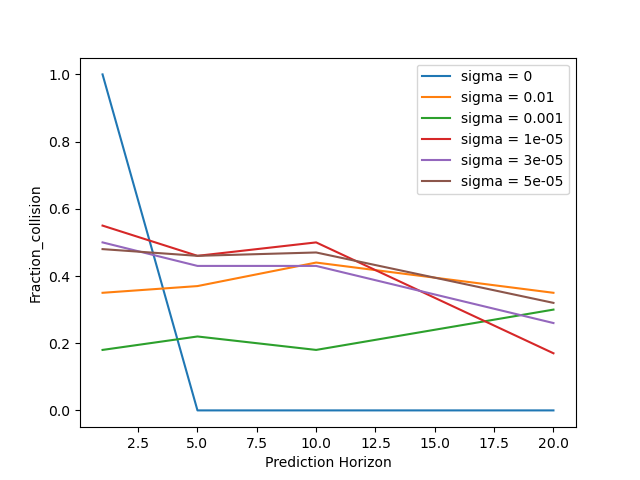
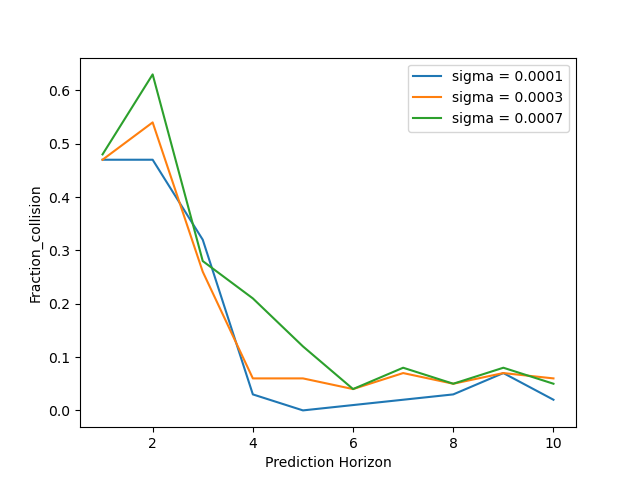
change before laptop repair

diff --git a/various_graphs.py b/various_graphs.py
@@ -49,7 +49,7 @@ for SELECT in SELECT_LIST:
                     vel_dataset = [dataset_size*[np.zeros((2,1))] for i in range(num_agents)]
                     plot_circles_flag = False
                     dummy_vel = 0.5*radius
-                    system = System(A, B, G, g, H, h, radius, Q, R, x_0_list, x_F_list, vel_dataset = vel_dataset, method = "scenario", sigma=sigma)    
+                    system = System(A, B, G, g, H, h, radius, Q, R, x_0_list, x_F_list, vel_dataset = vel_dataset, method = "scenario", sigma=sigma, N=N)    
                     start_time = time.time()
                     traj_cost = system.simulate_orca_mpc(N = N, plot_circles_flag = plot_circles_flag, plot_steps=False)
                     if traj_cost == None:
@@ -110,14 +110,9 @@ for SELECT in SELECT_LIST:
                     vel_dataset = [dataset_size*[np.zeros((2,1))] for i in range(num_agents)]
                     plot_circles_flag = False
                     dummy_vel = 0.5*radius
-                    system = System(A, B, G, g, H, h, radius, Q, R, x_0_list, x_F_list, vel_dataset = vel_dataset, method = "scenario", sigma=sigma)    
+                    system = System(A, B, G, g, H, h, radius, Q, R, x_0_list, x_F_list, vel_dataset = vel_dataset, method = "scenario", sigma=sigma, N=N)    
                     start_time = time.time()
-                    try:
-                        traj_cost = system.simulate_orca_mpc(N = N, plot_circles_flag = plot_circles_flag, plot_steps=False)
-                    except:
-                        cnt_collide += 1
-                        continue
-
+                    traj_cost = system.simulate_orca_mpc(N = N, plot_circles_flag = plot_circles_flag, plot_steps=False)
                     if traj_cost == None:
                         cnt_collide += 1
                         continue
@@ -138,19 +133,18 @@ for SELECT in SELECT_LIST:
     if SELECT == 3:
         avg_cost_vals = None
         avg_time_vals = None
-        num_ensembles = 1
+        num_ensembles = 500
         # sigma = 0.01 gives decent results
-        # dataset_size_list = [(x+1) for x in range(1)]
-        dataset_size_list = [1]
+        dataset_size_list = [1,10,20,50,100]
         frac_collide_list = []
-        sigma_list = [0,0.000000025,0.000000035,0.000000045]
-        # sigma_list = [0.001,0.003,0.005,0.007,0.009]
+        sigma_list = [0.5e-4,0.7e-4,0.9e-4,1e-4,2e-4]
+        # sigma_list = [0.001]
         time_vals_list = []
         for sigma in sigma_list:
             frac_collide = []
             time_vals = []
             for dataset_size in dataset_size_list:
-                N = 1
+                N = 5
                 lines = []
                 cost_vals = []
                 cnt_collide = 0
@@ -179,7 +173,7 @@ for SELECT in SELECT_LIST:
                         x_0_list[i]+=np.array([[0],[vert_deviation_list[i]],[0],[0]])
                     num_agents = len(x_0_list)
                     plot_circles_flag = True
-                    dummy_vel = 0.5*radius/math.sqrt(2)
+                    dummy_vel = 0.8*radius/math.sqrt(2)
                     
                     # vel_dataset = [dataset_size*[np.zeros((2,1))] for i in range(num_agents)]
                     vel_dataset_dummy = [dummy_vel*np.ones((2,1))]
@@ -187,15 +181,12 @@ for SELECT in SELECT_LIST:
                         vel_dataset_dummy.append(vel_dataset_dummy[-1]+np.random.randn(2,1)*sigma)
 
                     vel_dataset = [dataset_size*[dummy_vel*np.ones((2,1))+np.random.randn(2,1)*sigma] for i in range(num_agents)]
+                    vel_dataset[1] = vel_dataset_dummy
                     is_agent_dummy_list = [False, True]
                     x_0_list[1] += np.array([[0],[0],[dummy_vel],[dummy_vel]])
-                    system = System(A, B, G, g, H, h, radius, Q, R, x_0_list, x_F_list, vel_dataset = vel_dataset, method = "scenario", sigma=sigma, is_agent_dummy_list=is_agent_dummy_list)    
+                    system = System(A, B, G, g, H, h, radius, Q, R, x_0_list, x_F_list, vel_dataset = vel_dataset, method = "scenario", sigma=sigma, is_agent_dummy_list=is_agent_dummy_list, N=N)    
                     start_time = time.time()
-                    try:
-                        traj_cost = system.simulate_orca_mpc(N = N, plot_circles_flag = plot_circles_flag, plot_steps=True)
-                    except:
-                        cnt_collide += 1
-                        continue
+                    traj_cost = system.simulate_orca_mpc(N = N, plot_circles_flag = plot_circles_flag, plot_steps=True)
                     if traj_cost == None:
                         cnt_collide += 1
                         continue
@@ -227,16 +218,19 @@ for SELECT in SELECT_LIST:
         avg_time_vals = None
         num_ensembles = 100 #DEBUG
         # sigma = 0.01 gives decent results
-        N_list = [1, 5, 10, 20]
+        # N_list = [1, 5, 10, 20]
+        N_list = [x+1 for x in range(10)]
         frac_collide_list = []
-        sigma_list = [0,0.01,0.001,0.00001,0.00003,0.00005]
+        # sigma_list = [1e-5*(x) for x in range(5)] worked quite well
+        # sigma_list = [1e-5*(x) for x in range(5)]
+        sigma_list = [1e-4,3e-4,7e-4]
         time_vals_list = []
         for sigma in sigma_list:
             frac_collide = []
             time_vals = []
             for N in N_list:
                 
-                dataset_size=5
+                dataset_size=10
                 lines = []
                 cost_vals = []
                 time_taken = 0
@@ -264,12 +258,19 @@ for SELECT in SELECT_LIST:
                     for i in range(len(x_0_list)):
                         x_0_list[i]+=np.array([[0],[vert_deviation_list[i]],[0],[0]])
                     num_agents = len(x_0_list)
-                    vel_dataset = [dataset_size*[np.zeros((2,1))] for i in range(num_agents)]
-                    plot_circles_flag = False
-                    dummy_vel = 0.5*radius/math.sqrt(2)
+                    plot_circles_flag = True
+                    dummy_vel = 0.8*radius/math.sqrt(2)
                     is_agent_dummy_list = [False, True]
+                    # vel_dataset = [dataset_size*[np.zeros((2,1))] for i in range(num_agents)]
+                    vel_dataset_dummy = [dummy_vel*np.ones((2,1))]
+                    for iter in range(dataset_size-1):
+                        vel_dataset_dummy.append(vel_dataset_dummy[-1]+np.random.randn(2,1)*sigma)
+
+                    vel_dataset = [dataset_size*[dummy_vel*np.ones((2,1))+np.random.randn(2,1)*sigma] for i in range(num_agents)]
+                    vel_dataset[1] = vel_dataset_dummy
+                    
                     x_0_list[1] += np.array([[0],[0],[dummy_vel],[dummy_vel]])
-                    system = System(A, B, G, g, H, h, radius, Q, R, x_0_list, x_F_list, vel_dataset = vel_dataset, method = "scenario", sigma=sigma, is_agent_dummy_list=is_agent_dummy_list)    
+                    system = System(A, B, G, g, H, h, radius, Q, R, x_0_list, x_F_list, vel_dataset = vel_dataset, method = "scenario", sigma=sigma, is_agent_dummy_list=is_agent_dummy_list, N=N)    
                     start_time = time.time()
                     traj_cost = system.simulate_orca_mpc(N = N, plot_circles_flag = plot_circles_flag, plot_steps=False)
                     if traj_cost == None:
@@ -334,7 +335,7 @@ for SELECT in SELECT_LIST:
                     dummy_vel = 0.5*radius/math.sqrt(2)
                     is_agent_dummy_list = [False, True]
                     x_0_list[1] += np.array([[0],[0],[dummy_vel],[dummy_vel]])
-                    system = System(A, B, G, g, H, h, radius, Q, R, x_0_list, x_F_list, vel_dataset = vel_dataset, method = "scenario", sigma=sigma, is_agent_dummy_list=is_agent_dummy_list)    
+                    system = System(A, B, G, g, H, h, radius, Q, R, x_0_list, x_F_list, vel_dataset = vel_dataset, method = "scenario", sigma=sigma, is_agent_dummy_list=is_agent_dummy_list, N=N)    
                     start_time = time.time()
                     traj_cost = system.simulate_orca_mpc(N = N, plot_circles_flag = plot_circles_flag, plot_steps=False)
                     system.plot_dij("d_ij"+"_"+str(sigma)+"_"+str(N)+"_"+str(dataset_size)+".png",0,1)

diff --git a/system.py b/system.py
@@ -5,7 +5,7 @@ import copy
 from tqdm import tqdm
 class System:
     
-    def __init__(self, A, B, G, g, H, h, radius, Q, R, x_0_list, x_F_list , is_agent_dummy_list=[], vel_dataset = [], method = "constant_vel", sigma = 0):
+    def __init__(self, A, B, G, g, H, h, radius, Q, R, x_0_list, x_F_list , is_agent_dummy_list=[], vel_dataset = [], method = "constant_vel", sigma = 0, N=1):
         # it only makes sense to have velocity constraints not position in G
         assert(len(x_0_list) == len(x_F_list))
         self.num_agents = len(x_0_list)
@@ -19,7 +19,7 @@ class System:
         self.sigma = sigma
         self.d_ij = []
         for i in range(self.num_agents):
-            new_agent = Agent(A, B, G, g, H, h, radius=radius, _id=i, x_0=x_0_list[i], Q=Q, R=R, x_F=x_F_list[i], is_agent_dummy_list = self.is_agent_dummy_list, sigma=sigma)
+            new_agent = Agent(A, B, G, g, H, h, radius=radius, _id=i, x_0=x_0_list[i], Q=Q, R=R, x_F=x_F_list[i], is_agent_dummy_list = self.is_agent_dummy_list, sigma=sigma, tau=N+1)
             self.agent_list.append(new_agent)
 
 
@@ -67,41 +67,39 @@ class System:
             for j in range(len(self.agent_list)):
                 if i==j:
                     continue
-                if np.linalg.norm(self.agent_list[i].x[-1][0:2]-self.agent_list[j].x[-1][0:2])<0.99*(self.agent_list[i].radius+self.agent_list[j].radius):
+                if np.linalg.norm(self.agent_list[i].x[-1][0:2]-self.agent_list[j].x[-1][0:2])<(self.agent_list[i].radius+self.agent_list[j].radius):
                     return True
         return False
     def simulate_orca_mpc(self,max_iter = 200, eps=1e-3, N = 1, plot_circles_flag = True, plot_steps = True):
-        try:
-            traj_cost = 0
-            for iter_num in tqdm(range(max_iter)):
-                # abc = input("abc")
+        traj_cost = 0
+        for iter_num in tqdm(range(max_iter)):
+            # abc = input("abc")
+            for agent in self.agent_list:
+                agent.orca_mpc_update(N, self.agent_list, vel_dataset = self.vel_dataset, method = self.method)
+            if self.method!="constant_vel":
+                new_vel_dataset = []
                 for agent in self.agent_list:
-                    agent.orca_mpc_update(N, self.agent_list, vel_dataset = self.vel_dataset, method = self.method)
-                if self.method!="constant_vel":
-                    new_vel_dataset = []
-                    for agent in self.agent_list:
-                        temp = []
-                        for i in range(1,len(self.vel_dataset[agent._id])):
-                            temp.append(self.vel_dataset[agent._id][i])
-                        temp.append(agent.x[-1][2:4])
-                        new_vel_dataset.append(copy.deepcopy(temp))
-                    self.vel_dataset = new_vel_dataset
-                if plot_steps:
-                    plt.figure().clear()
-                    self.plot_trajectory(plot_circles_flag)
-                    plt.savefig("system_trajectory.png")
-                cur_norm_sum = self.norm_sum()
-                traj_cost += cur_norm_sum
-                if self.collision():
-                    return None
-                if(cur_norm_sum<eps):
-                    print(f'Terminated after {iter_num} iterations')
-                    return traj_cost
-            print(f'Terminated after {max_iter} iterations')
-            print(traj_cost)
-            return traj_cost
-        except:
-            raise Exception("Collision!")
+                    temp = []
+                    for i in range(1,len(self.vel_dataset[agent._id])):
+                        temp.append(self.vel_dataset[agent._id][i])
+                    temp.append(agent.x[-1][2:4])
+                    new_vel_dataset.append(copy.deepcopy(temp))
+                self.vel_dataset = new_vel_dataset
+            if plot_steps:
+                plt.figure().clear()
+                self.plot_trajectory(plot_circles_flag)
+                plt.savefig("system_trajectory.png")
+            cur_norm_sum = self.norm_sum()
+            traj_cost += cur_norm_sum
+            if self.collision():
+                return None
+            if(cur_norm_sum<eps):
+                print(f'Terminated after {iter_num} iterations')
+                return traj_cost
+        print(f'Terminated after {max_iter} iterations')
+        print(traj_cost)
+        return traj_cost
+
     # def simulate_orca(self,max_iter = 5, eps=1e-6):
     #     for iter_num in tqdm(range(max_iter)):
     #         if(self.norm_sum()<eps):

diff --git a/agent.py b/agent.py
@@ -43,8 +43,8 @@ class Agent:
         n_x = self.x[-1].shape[0]
         assert (n_x == 4)
         w =  (self.sigma*np.random.randn(n_x,1))if NOISY_ENV else np.zeros((n_x,1))
-        # if self.is_agent_dummy_list[self._id]:
-        #     w =  self.sigma*np.random.randn(n_x,1)
+        if self.is_agent_dummy_list[self._id]:
+            w =  self.sigma*np.random.randn(n_x,1)
         self.x.append(self.A @ self.x[-1] + self.B @ u+w)
         self.u.append(u)
 
@@ -67,10 +67,10 @@ class Agent:
         # u  = projection["projected_point"]-(v_a-v_b)
         
         #TODO DEBUG
-        try:
-            u_new, _ , region = get_u(p_a, p_b, v_a, v_b, self.radius, self.radius, self.tau)
-        except:
-            raise Exception("collision")
+        if(np.linalg.norm((p_b-p_a))<2*self.radius):
+            # assert(False)
+            return False
+        u_new, _ , region = get_u(p_a, p_b, v_a, v_b, self.radius, self.radius, self.tau)
         # assert(np.linalg.norm(u-u_new)<1e-3)
         u = u_new
         #END DEBUG
@@ -89,7 +89,7 @@ class Agent:
             else:
                 opti.subject_to((x[[idx],2:4].T-(v_a+u/2)).T@u>=0)
                 pass
-
+        return True
 
     def find_u_orca_mpc(self, N, agent_list, vel_dataset, method):
         n_x = self.A.shape[1]
@@ -142,7 +142,7 @@ class Agent:
                         x_b = agent_cur_state_dataset[agent._id][ii]
                         v_b = x_b[2:4]
                         p_b = x_b[0:2]
-                        self.add_orca_constraints(opti, x, i+1, p_a, p_b, v_a, v_b, is_neighbor_dummy = self.is_agent_dummy_list[agent._id])
+                        orca_success = self.add_orca_constraints(opti, x, i+1, p_a, p_b, v_a, v_b, is_neighbor_dummy = self.is_agent_dummy_list[agent._id])
                         agent_cur_state_dataset[agent._id][ii] = np.array([[1, 0, 1, 0], [0, 1, 0, 1], [0, 0, 1, 0], [0, 0, 0, 1]])@x_b # NOT REALLY???
             # using previous mpc solution.
             # x_cur_pred = np.array([[1, 0, 1, 0], [0, 1, 0, 1], [0, 0, 1, 0], [0, 0, 0, 1]])@x_cur_pred

diff --git a/atharva_code.py b/atharva_code.py
@@ -4,8 +4,7 @@ from math import pi, cos, atan2, asin, tan
 import matplotlib.pyplot as plt
 
 def get_u(p_a, p_b, v_a, v_b, r_a, r_b, tau):
-    if norm((p_b-p_a)/tau) < (r_a+r_b):
-        raise Exception("Collision in get_u")
+    print("tau is: ",tau)
     # print('0')
     m = (p_b-p_a)
     m = m/norm(m)
